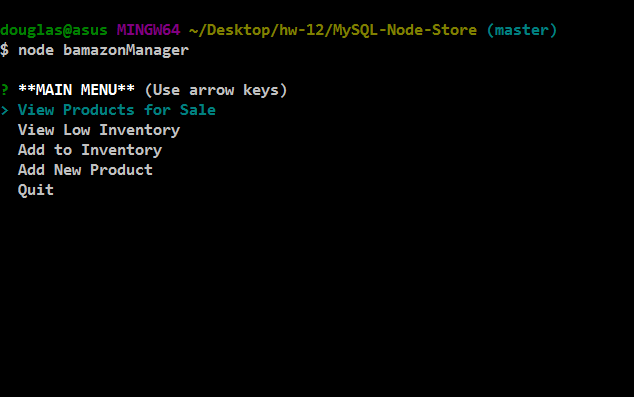
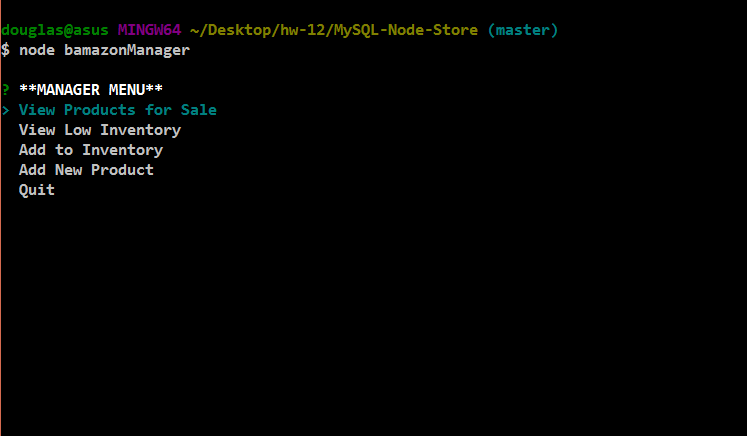
updated README.md

Changed region(s): [[0.0, 0.1814, 0.4495, 0.5139], [0.0, 0.0302, 0.8991, 0.1511]]

diff --git a/bamazonManager.js b/bamazonManager.js
@@ -43,7 +43,7 @@ function mainMenu()
 	INQUIRER.prompt([
 	{
 		type: 'list',
-		message: "**MAIN MENU**",
+		message: "**MANAGER MENU**",
 		choices: [	"View Products for Sale",
 	     			"View Low Inventory",
 	    			"Add to Inventory",

diff --git a/README.md b/README.md
@@ -57,7 +57,11 @@ $ npm install
 
  #### bamazonManager.js
 
-*  what it does/ menu options what eatch do/ link to video
+*  
+	*`View Products for Sale`
+	*`View Low Inventory`
+	*`Add to Inventory`
+	*`Add New Product`
 
 <img src="/images/manager.png" alt="bamazonManager screenshot" width="640">
 
@@ -66,7 +70,10 @@ $ npm install
 
 #### bamazonSupervisor.js
 
-*  what it does/ menu options what eatch do/ link to video
+*  Displays the 'Supervisors Menu' on the console with the following options:
+	*`View Products Sales By Department`
+	*`Create New Department`
+	
 
 
 <img src="/images/supervisor.png" alt="bamazonSupervisor screenshot" width="640">
